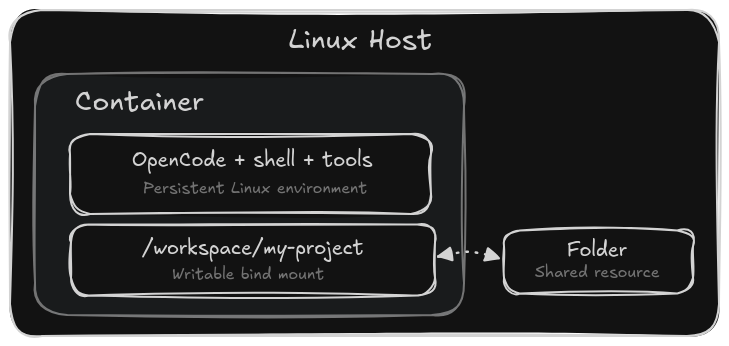
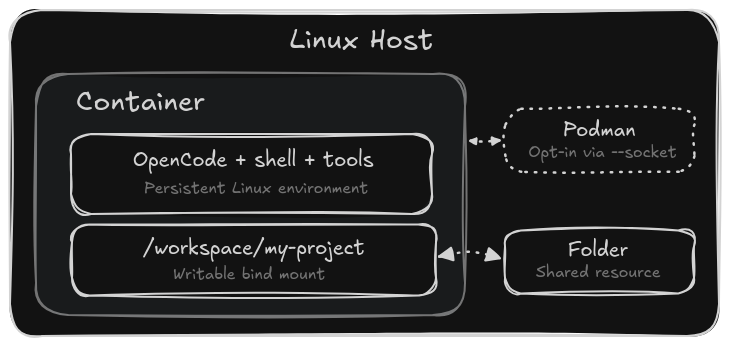
Add opt-in host Podman socket access

diff --git a/README.md b/README.md
@@ -1,6 +1,6 @@
 # OpenCave
 
-A rootless Podman container for [OpenCode](https://opencode.ai). Host file access is scoped to the mounted folder only. Optional [OpenChamber](https://openchamber.dev) web UI.
+A rootless Podman container for [OpenCode](https://opencode.ai). By default, host file access is scoped to the mounted project. Optional [OpenChamber](https://openchamber.dev) web UI.
 
 ## Overview
 
@@ -29,7 +29,7 @@ Or run `./setup.sh` from a checkout.
 
 ```sh
 opencave [DIR]                   # OpenCode in a project
-opencave shell                   # Open a shell
+opencave shell                   # Open Bash in the container's /root (no project needed)
 opencave serve [DIR]             # Start OpenCode web UI
 opencave serve [DIR] --openchamber # Add the OpenChamber UI
 opencave import-skills [DIR]     # Import host skills
@@ -41,6 +41,20 @@ opencave reset                   # Clear chats and packages, keep provider login
 ```
 
 More commands: `opencave help`.
+
+### Host Podman socket (optional)
+
+If the socket isn’t active, run `systemctl --user enable --now podman.socket` on the host.
+
+```sh
+opencave --socket [DIR]           # OpenCode in a project with host Podman access
+opencave shell --socket           # Open Bash in the container's /root (no project needed), with host Podman access
+opencave serve --socket [DIR]     # Start OpenCode web UI with host Podman access
+```
+
+`docker`, `docker compose`, `podman`, and `podman compose` all use host Podman. Older installs can add the clients with `opencave update --system`.
+
+**Trusted sessions only:** `--socket` grants access to host files and the host Podman engine. Resources it creates survive OpenCave uninstall.
 
 ## Uninstall
 
